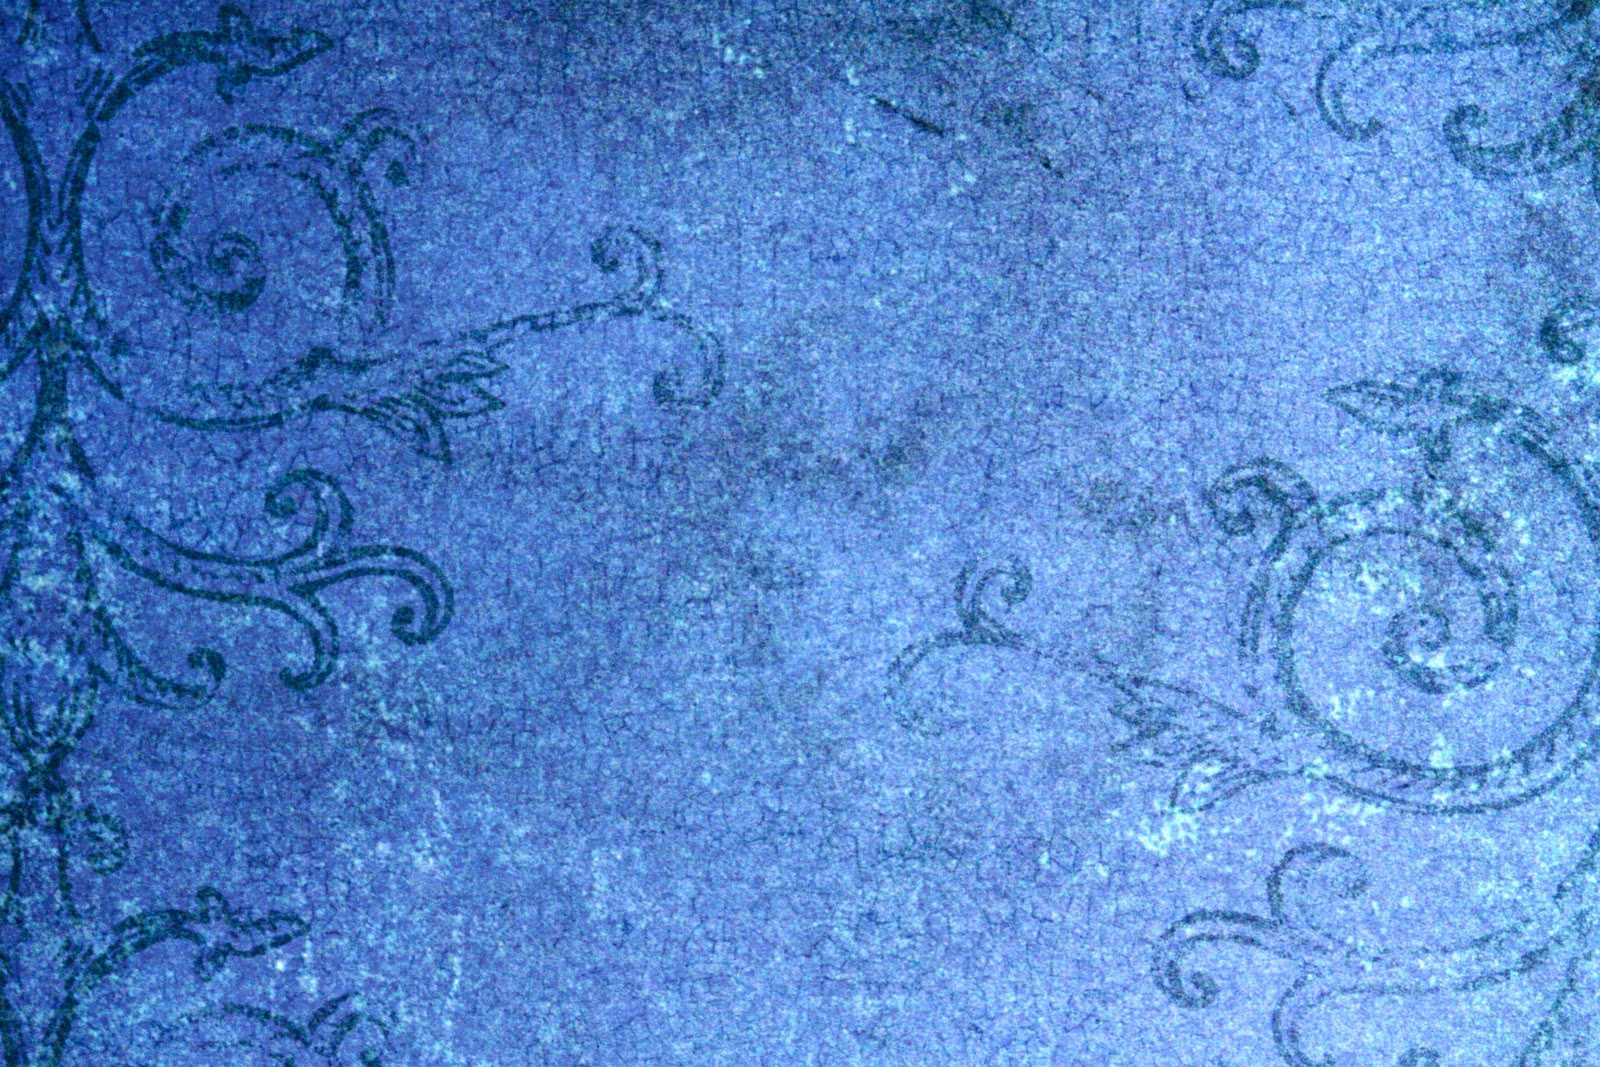
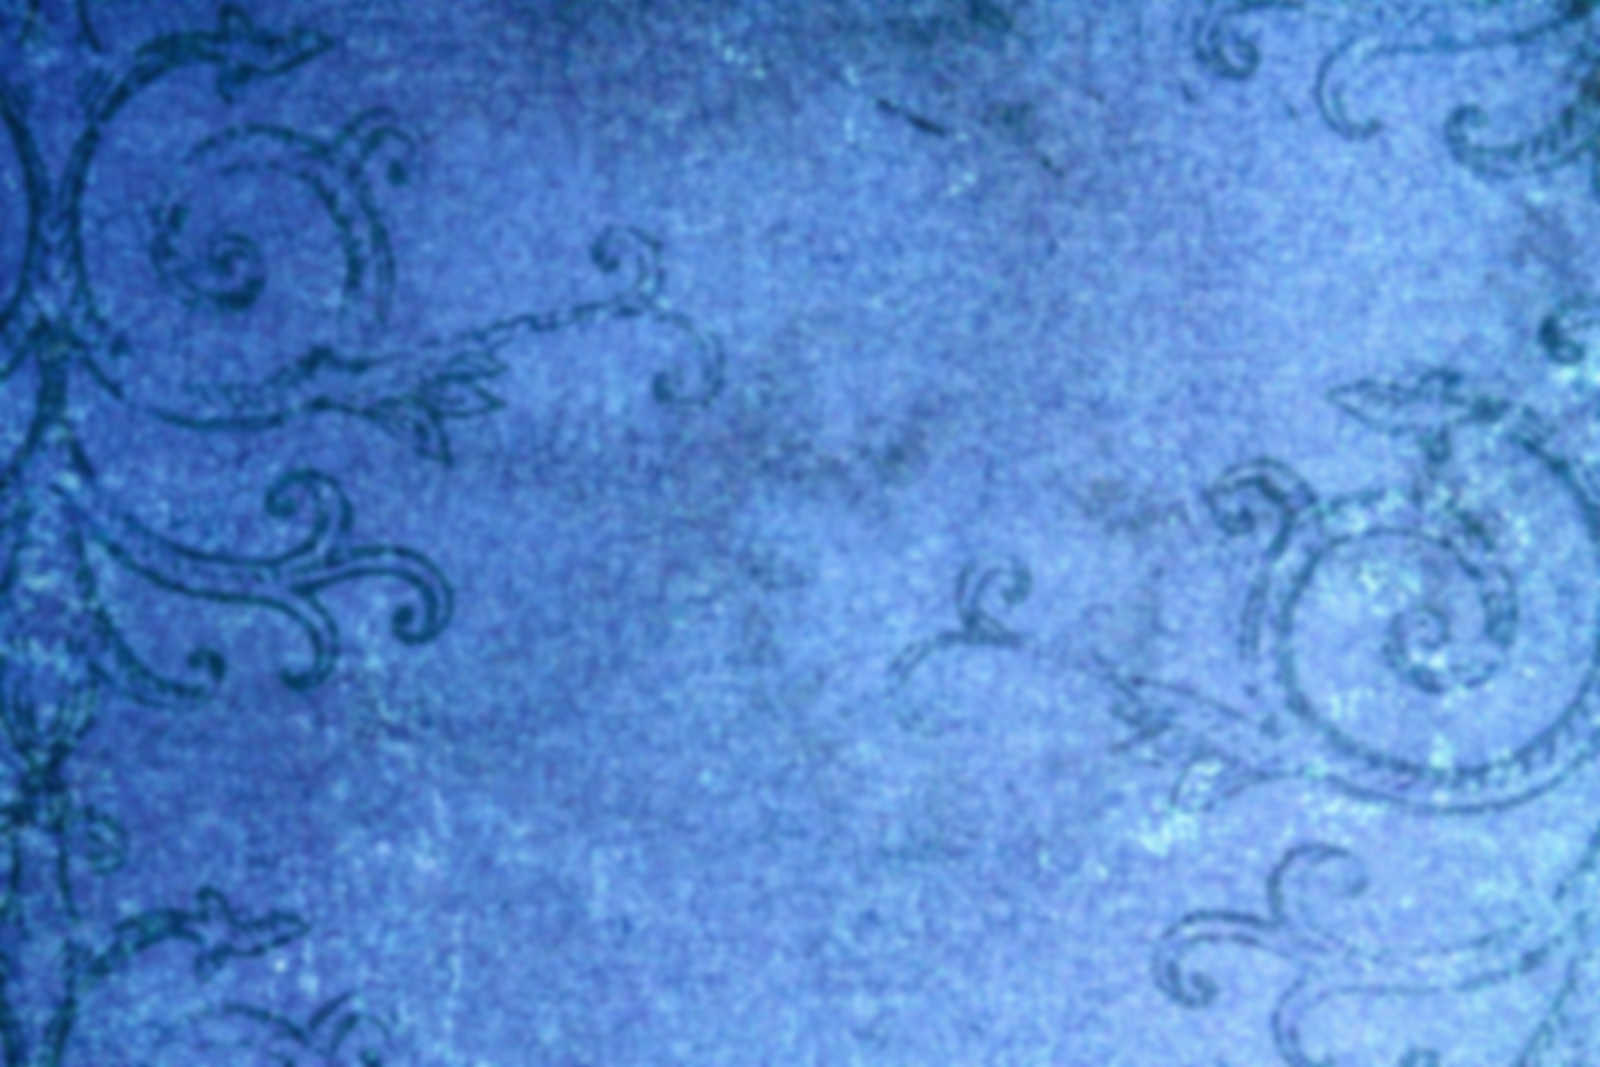
move hue effect to images

Changed region(s): [[0.0, 0.0, 1.0, 1.0], [0.2812, 0.2474, 0.3125, 0.2784]]

diff --git a/style.css b/style.css
@@ -1,1 +1,1 @@
-@font-face{font-family:'Iranian Sans';src:local('Iranian Sans'),url('../irsans.ttf')}body{font-family:'Comfortaa','Iranian Sans',sans-serif;font-weight:300;padding:0;margin:0}h1,h2,h3{margin:0;padding:0}.rtl{direction:rtl}.ltr{direction:ltr}.continer{margin:0 auto;width:75%;display:block;vertical-align:middle}.spaced{padding:30px 0}.left{text-align:left;float:left}.right{text-align:right;float:right}.site-header{background-color:#839496;height:46px;box-shadow:0 0 8px #002b36;position:fixed;width:100%}.site-header a{color:#657b83;text-decoration:none;padding:4px 0;display:block;transition:200ms}.site-header a:hover{color:#586e75;text-shadow:0 2px 6px rgba(7,54,66,0.2)}.language{margin-top:10px}.banner{display:block;transition:200ms;background-size:cover;background-repeat:no-repeat;color:#fdf6e3;text-align:center;font-size:2em;box-shadow:inset 0 0 30px #000;text-shadow:0 4px 2px rgba(0,43,54,0.4)}.banner p{display:block;margin:0}.banner h1{font-variant:small-caps}.label{white-space:nowrap;font-size:.95em}#welcome{background-image:url("assets/gnome-bg-1.jpg")}#welcome p{font-size:2em;padding:3em 0}#dark-intro{background-image:url("assets/dark-bg.jpg")}#dark-intro p{max-width:70%;margin:0 auto;color:#93a1a1;padding-top:1em}#dark-intro h1{display:inline-block;font-size:1.6em}#dark-intro div{padding:6em 0}#dark-intro .label{color:#93a1a1;text-shadow:0 0 6px #93a1a1}#dark-intro #dark-label{color:#586e75;text-shadow:0 0 6px #586e75}#light-intro{background-image:url("assets/light-bg.jpg")}#light-intro p{max-width:70%;margin:0 auto;color:#073642;padding-top:1em;font-size:1.2em}#light-intro h1{display:inline-block;font-size:1.6em}#light-intro div{padding:6em 0}#light-intro .label{color:#657b83;text-shadow:0 0 6px #657b83}#light-intro #light-label{color:#93a1a1;text-shadow:0 0 6px #93a1a1}#try-it{background-image:url("assets/gnome-bg-2.jpg")}#try-it p{max-width:70%;margin:0 auto;color:#fdf6e3;padding-top:1em;font-size:1.2em;font-weight:bold;text-shadow:0 2px 6px rgba(253,246,227,0.3)}#try-it h1{font-size:2.5em}#try-it div{padding:6em 0}#try-it .label{color:#d33682;text-shadow:0 0 6px #d33682}#get-it{background-image:url("assets/gnome-bg-3.jpg");filter:hue-rotate(250deg)}#get-it .button{line-height:1.5em;background-color:#6c71c4;white-space:nowrap;margin:0 auto;padding:8px 24px;border-radius:16px;text-decoration:none;text-shadow:none;color:#eee8d5;font-size:1.2em;transition:200ms;box-shadow:0 1px 3px #586e75}#get-it .button:hover{background-color:#859900;padding:8px 48px;box-shadow:0 1px 8px #002b36}#get-it div{padding:4em 0}#get-it h1{line-height:3em}.site-footer{line-height:2.5em;background-color:#002b36;color:#586e75;text-shadow:0 2px 4px #657b83}.site-footer a{text-decoration:none;transition:200ms;color:#839496}.site-footer a:hover{color:#eee8d5}
+@font-face{font-family:'Comfortaa';src:local('Comfortaa'),url('assets/comfortaa.ttf')}@font-face{font-family:'Iranian Sans';src:local('Iranian Sans'),url('../irsans.ttf')}body{font-family:'Comfortaa','Iranian Sans',sans-serif;font-weight:300;padding:0;margin:0}h1,h2,h3{margin:0;padding:0}.rtl{direction:rtl}.ltr{direction:ltr}.continer{margin:0 auto;width:75%;display:block;vertical-align:middle}.spaced{padding:30px 0}.left{text-align:left;float:left}.right{text-align:right;float:right}.site-header{background-color:#839496;height:46px;box-shadow:0 0 8px #002b36;position:fixed;width:100%}.site-header a{color:#657b83;text-decoration:none;padding:4px 0;display:block;transition:200ms}.site-header a:hover{color:#586e75;text-shadow:0 2px 6px rgba(7,54,66,0.2)}.language{margin-top:10px}.banner{display:block;transition:200ms;background-size:cover;background-repeat:no-repeat;color:#fdf6e3;text-align:center;font-size:2em;box-shadow:inset 0 0 30px #000;text-shadow:0 4px 2px rgba(0,43,54,0.4)}.banner p{display:block;margin:0}.banner h1{font-variant:small-caps}.label{white-space:nowrap;font-size:.95em}#welcome{background-image:url("assets/gnome-bg-1.jpg")}#welcome p{font-size:2em;padding:3em 0}#dark-intro{background-image:url("assets/dark-bg.jpg")}#dark-intro p{max-width:70%;margin:0 auto;color:#93a1a1;padding-top:1em}#dark-intro h1{display:inline-block;font-size:1.6em}#dark-intro div{padding:6em 0}#dark-intro .label{color:#93a1a1;text-shadow:0 0 6px #93a1a1}#dark-intro #dark-label{color:#586e75;text-shadow:0 0 6px #586e75}#light-intro{background-image:url("assets/light-bg.jpg")}#light-intro p{max-width:70%;margin:0 auto;color:#073642;padding-top:1em;font-size:1.2em}#light-intro h1{display:inline-block;font-size:1.6em}#light-intro div{padding:6em 0}#light-intro .label{color:#657b83;text-shadow:0 0 6px #657b83}#light-intro #light-label{color:#93a1a1;text-shadow:0 0 6px #93a1a1}#try-it{background-image:url("assets/gnome-bg-2.jpg")}#try-it p{max-width:70%;margin:0 auto;color:#fdf6e3;padding-top:1em;font-size:1.2em;font-weight:bold;text-shadow:0 2px 6px rgba(253,246,227,0.3)}#try-it h1{font-size:2.5em}#try-it div{padding:6em 0}#try-it .label{color:#d33682;text-shadow:0 0 6px #d33682}#get-it{background-image:url("assets/gnome-bg-3.jpg")}#get-it .button{line-height:1.5em;background-color:#6c71c4;white-space:nowrap;margin:0 auto;padding:8px 24px;border-radius:16px;text-decoration:none;text-shadow:none;color:#eee8d5;font-size:1.2em;transition:200ms;box-shadow:0 1px 3px #586e75}#get-it .button:hover{background-color:#859900;padding:8px 48px;box-shadow:0 1px 8px #002b36}#get-it div{padding:4em 0}#get-it h1{line-height:3em}.site-footer{line-height:2.5em;background-color:#002b36;color:#586e75;text-shadow:0 2px 4px #657b83}.site-footer a{text-decoration:none;transition:200ms;color:#839496}.site-footer a:hover{color:#eee8d5}

diff --git a/style.scss b/style.scss
@@ -192,7 +192,6 @@ h3 {
 }
 #get-it {
   background-image: url("assets/gnome-bg-3.jpg");
-  filter: hue-rotate(250deg);
   & .button {
     line-height: 1.5em;
     background-color: $violet ;
